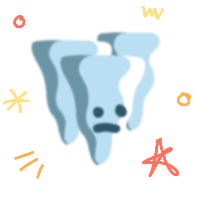
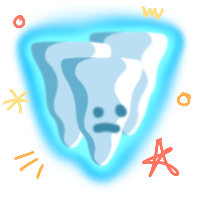
Update Art (#22)
* add background

* update icicle and snowball images

* change all buttons to blue

* add light animation to signin background

diff --git a/src/utils/button.ts b/src/utils/button.ts
@@ -1,5 +1,5 @@
 import RoundRectangle from "phaser3-rex-plugins/plugins/roundrectangle.js";
-import { darkBlue, darkRed, fontFamily, lightBlue, lightRed, normalBlue, normalRed, textStyle } from "./constants";
+import { darkBlue, fontFamily, lightBlue, normalBlue, textStyle } from "./constants";
 
 export default class Button extends Phaser.GameObjects.Container {
 	highlight: RoundRectangle;
@@ -7,9 +7,8 @@ export default class Button extends Phaser.GameObjects.Container {
 	textObject: Phaser.GameObjects.Text;
 	text: string;
 	icon?: Phaser.GameObjects.Image;
-	private color: "red" | "blue";
 
-	constructor(scene: Phaser.Scene, x: number, y: number, color: "red" | "blue") {
+	constructor(scene: Phaser.Scene, x: number, y: number) {
 		super(scene, x, y, []);
 
 		this.text = "";
@@ -17,18 +16,13 @@ export default class Button extends Phaser.GameObjects.Container {
 			.setAlign("left")
 			.setOrigin(0, 0.5);
 
-		this.color = color;
 		this.highlight = new RoundRectangle(scene, 0, 0, 0, 0, 10, 0xffffff).setAlpha(0);
-		this.background = new RoundRectangle(scene, 0, 0, 0, 0, 10, color === "red" ? lightRed : lightBlue)
+		this.background = new RoundRectangle(scene, 0, 0, 0, 0, 10, lightBlue)
 			.setInteractive({ useHandCursor: true })
-			.on("pointerover", () =>
-				color === "red"
-					? this.background.setFillStyle(normalRed, 1)
-					: this.background.setFillStyle(normalBlue, 1)
-			)
+			.on("pointerover", () => this.background.setFillStyle(normalBlue, 1))
 			.on("pointerout", () => this.resetButton())
 			.on("pointerdown", () => {
-				color === "red" ? this.background.setFillStyle(darkRed, 1) : this.background.setFillStyle(darkBlue, 1);
+				this.background.setFillStyle(darkBlue, 1);
 				scene.add.tween({
 					targets: [this.highlight],
 					ease: "Sine.easeIn",
@@ -56,7 +50,7 @@ export default class Button extends Phaser.GameObjects.Container {
 	}
 
 	resetButton(): this {
-		this.color === "red" ? this.background.setFillStyle(lightRed, 1) : this.background.setFillStyle(lightBlue, 1);
+		this.background.setFillStyle(lightBlue, 1);
 		this.highlight.setAlpha(0);
 		this.highlight.width = this.background.width;
 		this.highlight.height = this.background.height;
@@ -68,10 +62,10 @@ export default class Button extends Phaser.GameObjects.Container {
 		if (this.icon !== undefined) {
 			return this;
 		}
-		this.icon = new Phaser.GameObjects.Image(this.scene, 0, 0, imageKey).setScale(0.15).setOrigin(1, 0.5);
-		const textX = (this.textObject.width + this.icon.displayWidth + 6) / 2;
+		this.icon = new Phaser.GameObjects.Image(this.scene, 0, 0, imageKey).setScale(0.15);
+		const textX = (this.textObject.width + 36) / 2;
 		this.textObject.setX(-textX);
-		this.icon.setX(textX);
+		this.icon.setX(textX - 15);
 		this.background.width = this.textObject.width + 50;
 		this.background.height = this.textObject.height + 16;
 		this.highlight.width = this.background.width;
@@ -85,9 +79,9 @@ export default class Button extends Phaser.GameObjects.Container {
 		this.text = text;
 		this.textObject.setText(text);
 		if (this.icon !== undefined) {
-			const textX = (this.textObject.width + this.icon.displayWidth + 6) / 2;
+			const textX = (this.textObject.width + 36) / 2;
 			this.textObject.setX(-textX);
-			this.icon.setX(textX);
+			this.icon.setX(textX - 15);
 			this.background.width = this.textObject.width + 50;
 		} else {
 			const textX = this.textObject.width / 2;
@@ -124,7 +118,7 @@ export default class Button extends Phaser.GameObjects.Container {
 			const textX = this.textObject.width / 2;
 			this.textObject.setX(-textX);
 
-			this.color === "red" ? this.background.setFillStyle(darkRed, 1) : this.background.setFillStyle(darkBlue, 1);
+			this.background.setFillStyle(darkBlue, 1);
 			this.background.disableInteractive().removeListener("pointerout");
 
 			if (this.icon !== undefined) {
@@ -136,17 +130,15 @@ export default class Button extends Phaser.GameObjects.Container {
 				.setOrigin(0, 0.5)
 				.setStyle({ ...textStyle, strokeThickness: 0 });
 			if (this.icon !== undefined) {
-				const textX = (this.textObject.width + this.icon.displayWidth + 6) / 2;
+				const textX = (this.textObject.width + 36) / 2;
 				this.textObject.setX(-textX);
-				this.icon.setX(textX);
+				this.icon.setX(textX - 15);
 			} else {
 				const textX = this.textObject.width / 2;
 				this.textObject.setX(-textX);
 			}
 
-			this.color === "red"
-				? this.background.setFillStyle(lightRed, 1)
-				: this.background.setFillStyle(lightBlue, 1);
+			this.background.setFillStyle(lightBlue, 1);
 			this.background.setInteractive({ useHandCursor: true }).on("pointerout", () => this.resetButton());
 
 			this.scene.add.tween({

diff --git a/src/phaser/map.ts b/src/phaser/map.ts
@@ -100,9 +100,9 @@ class MapScene extends AScene {
 		this.registry.events.on("changedata", this.updateData, this);
 
 		this.snowballText = this.add.text(50, 16, `: ${numberWithCommas(this.registry.get("SB") / 100)}`, textStyle);
-		this.snowballIcon = this.add.image(16, 25, "snowball").setScale(0.15).setOrigin(0, 0.5);
+		this.snowballIcon = this.add.image(31, 25, "snowball").setScale(0.15);
 		this.icicleText = this.add.text(44, 56, `: ${numberWithCommas(this.registry.get("IC"))}`, textStyle);
-		this.icicleIcon = this.add.image(16, 65, "icicle").setScale(0.15).setOrigin(0, 0.5);
+		this.icicleIcon = this.add.image(31, 65, "icicle").setScale(0.15);
 
 		if (this.registry.get("ResetBonus") !== 0) {
 			this.add.text(50, 96, `: +${numberWithCommas(this.registry.get("ResetBonus") / 100)}`, textStyle);
@@ -167,7 +167,7 @@ class MapScene extends AScene {
 		const lightBg = this.add.existing(new RoundRectangle(this, 0, 0, 200, 300, 15, lightBackgroundColor));
 		const title = this.add.text(0, -130, "", textStyle).setAlign("center").setOrigin(0.5, 0.5);
 		const description = this.add.text(-84, -110, "", textStyle).setAlign("left").setOrigin(0, 0);
-		const button = this.add.existing(new Button(this, 0, 120, "blue").setText("VISIT"));
+		const button = this.add.existing(new Button(this, 0, 120).setText("VISIT"));
 		const details = this.add.container(140, 0, [
 			lightBg,
 			title,
@@ -196,8 +196,8 @@ class MapScene extends AScene {
 		const title = this.add.text(0, -130, "", textStyle).setAlign("center").setOrigin(0.5, 0.5);
 		const description = this.add.text(-84, -110, "", textStyle).setAlign("left").setOrigin(0, 0);
 		const image = this.add.image(-115, -10, "icebiome").setScale(0.7);
-		const snowballButton = this.add.existing(new Button(this, 0, 70, "red").addIcon("snowball"));
-		const icicleButton = this.add.existing(new Button(this, 0, 120, "red").addIcon("icicle"));
+		const snowballButton = this.add.existing(new Button(this, 0, 70).addIcon("snowball"));
+		const icicleButton = this.add.existing(new Button(this, 0, 120).addIcon("icicle"));
 		const details = this.add.container(140, 0, [
 			lightBg,
 			title,

diff --git a/src/phaser/signin.ts b/src/phaser/signin.ts
@@ -1,15 +1,51 @@
 import AScene from "./AScene";
 
 class SigninScene extends AScene {
+	lightContainer: Phaser.GameObjects.Container;
+
 	constructor() {
 		super("Signin");
 	}
 
 	create() {
-		this.add.image(400, 300, "sky");
+		this.add.image(400, 300, "sky").setScrollFactor(0);
+
+		this.createAligned(this, "mountain3", 0.2);
+		this.createAligned(this, "mountain2", 0.5);
+		this.createAligned(this, "mountain1", 1);
+
+		this.anims.create({
+			key: "shine",
+			repeat: -1,
+			yoyo: true,
+			frames: [{ key: "light1" }, { key: "light2" }, { key: "light3" }, { key: "light4" }],
+			frameRate: 4,
+		});
+
+		this.lightContainer = this.add.container(400, 300, [
+			this.add.sprite(-250, -230, "light1").setScale(0.15).anims.play("shine"),
+			this.add.sprite(-340, -160, "light1").setScale(0.1).anims.play("shine"),
+			this.add.sprite(190, -70, "light1").setScale(0.2).anims.play("shine"),
+			this.add.sprite(270, -200, "light1").setScale(0.07).anims.play("shine"),
+			this.add.sprite(340, -140, "light1").setScale(0.15).anims.play("shine"),
+			this.add.sprite(-160, -110, "light1").setScale(0.23).anims.play("shine"),
+		]);
+	}
+
+	createAligned(scene: AScene, texture: string, scrollFactor: number) {
+		const count = 10 * scrollFactor;
+
+		let x = 0;
+		for (let i = 0; i < count; ++i) {
+			const image = scene.add.image(x, 600, texture).setOrigin(0, 1).setScrollFactor(scrollFactor);
+			x += image.width;
+		}
 	}
 
 	update() {
+		this.cameras.main.scrollX += 0.25;
+		this.lightContainer.x += 0.25;
+
 		if (this.registry.has("FinishedSignIn")) {
 			this.scene.start("Menu");
 		}

diff --git a/src/phaser/controller.ts b/src/phaser/controller.ts
@@ -22,6 +22,13 @@ import savannabiome from "../assets/savannabiome.png";
 import magmabiome from "../assets/magmabiome.png";
 import marinebiome from "../assets/marinebiome.png";
 import tropicalbiome from "../assets/tropicalbiome.png";
+import mountain1 from "../assets/mountain1.png";
+import mountain2 from "../assets/mountain2.png";
+import mountain3 from "../assets/mountain3.png";
+import light1 from "../assets/light1.png";
+import light2 from "../assets/light2.png";
+import light3 from "../assets/light3.png";
+import light4 from "../assets/light4.png";
 import star from "../assets/star.png";
 import MenuScene from "./menu";
 import AScene from "./AScene";
@@ -54,6 +61,13 @@ class Controller extends AScene {
 		this.load.image("magmabiome", magmabiome);
 		this.load.image("marinebiome", marinebiome);
 		this.load.image("tropicalbiome", tropicalbiome);
+		this.load.image("mountain1", mountain1);
+		this.load.image("mountain2", mountain2);
+		this.load.image("mountain3", mountain3);
+		this.load.image("light1", light1);
+		this.load.image("light2", light2);
+		this.load.image("light3", light3);
+		this.load.image("light4", light4);
 		this.load.image("star", star);
 	}
 

diff --git a/src/phaser/game.ts b/src/phaser/game.ts
@@ -107,9 +107,9 @@ class GameScene extends AScene {
 		});
 
 		this.snowballText = this.add.text(50, 16, `: ${numberWithCommas(this.registry.get("SB") / 100)}`, textStyle);
-		this.snowballIcon = this.add.image(16, 25, "snowball").setScale(0.15).setOrigin(0, 0.5);
+		this.snowballIcon = this.add.image(31, 25, "snowball").setScale(0.15);
 		this.icicleText = this.add.text(44, 56, `: ${numberWithCommas(this.registry.get("IC"))}`, textStyle);
-		this.icicleIcon = this.add.image(16, 65, "icicle").setScale(0.15).setOrigin(0, 0.5);
+		this.icicleIcon = this.add.image(31, 65, "icicle").setScale(0.15);
 
 		if (this.resetBonus !== 0) {
 			this.add.text(50, 96, `: +${numberWithCommas(this.resetBonus / 100)}`, textStyle);
@@ -282,7 +282,7 @@ class GameScene extends AScene {
 			.setAlign("left")
 			.setOrigin(0, 0.5);
 		const button = this.add.existing(
-			new Button(this, 150, y, "red")
+			new Button(this, 150, y)
 				.addIcon("snowball")
 				.setText(`${numberWithCommas(maybeItemDiscountPrice / 100)} x`)
 				.addCallback(() => this.purchaseItem(itemDetail, maybeItemDiscountPrice, storeId, button))

diff --git a/src/phaser/menu.ts b/src/phaser/menu.ts
@@ -136,7 +136,7 @@ class MenuScene extends AScene {
 			.setAlpha(0);
 
 		const resetButton = this.add.existing(
-			new Button(this, 0, 114, "blue").setText("RESET").addCallback(() => this.reset(resetButton))
+			new Button(this, 0, 114).setText("RESET").addCallback(() => this.reset(resetButton))
 		);
 		const closeButton = this.add.existing(
 			new CloseButton(this, 177.5, -157.5).addCallback(this.resetConfirmationContainer, () => {

diff --git a/src/utils/constants.ts b/src/utils/constants.ts
@@ -8,12 +8,6 @@ const textStyle = { fontFamily: fontFamily, fontSize: normalFontSize };
 
 const errorHex = "#ff7360";
 
-const lightRed = 0xd05c4f;
-
-const normalRed = 0xb94e46;
-
-const darkRed = 0xa63e39;
-
 const closeButtonFill = 0xbadff2;
 
 const lightBlue = 0x6b94a5;
@@ -40,9 +34,6 @@ export {
 	smallFontSize,
 	textStyle,
 	errorHex,
-	lightRed,
-	normalRed,
-	darkRed,
 	closeButtonFill,
 	lightBlue,
 	normalBlue,

diff --git a/src/phaser/AScene.ts b/src/phaser/AScene.ts
@@ -119,7 +119,7 @@ abstract class AScene extends Phaser.Scene {
 			.setAlign("center")
 			.setOrigin(0.5, 0.5);
 		const button = this.add.existing(
-			new Button(this, x, 80, "red")
+			new Button(this, x, 80)
 				.setText(`$ ${usd}.00`)
 				.addCallback(() => this.purchaseCurrency(bundleDetail, usd, button))
 		);
